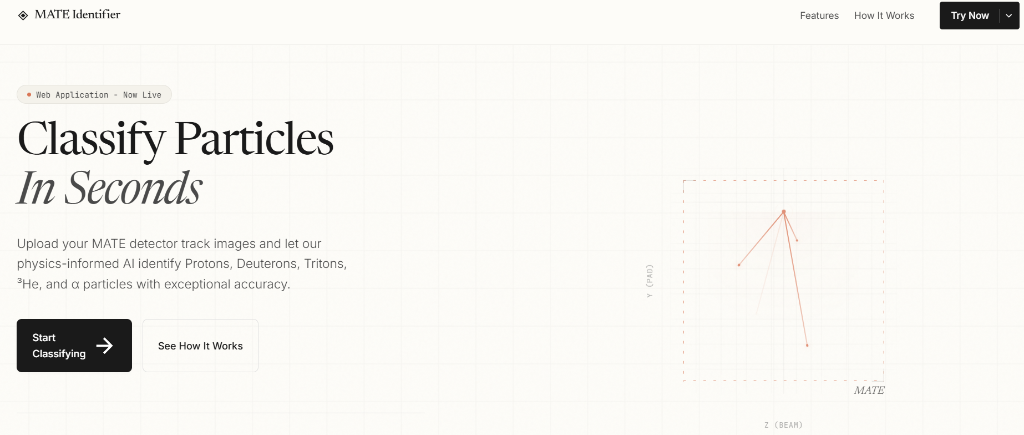
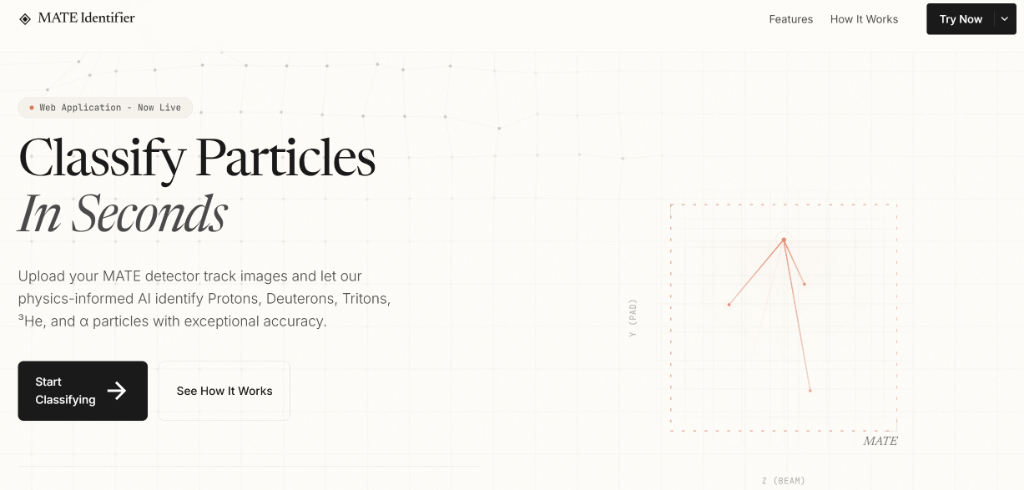
docs: Update landing page screenshot and reorganize README structure

diff --git a/README.md b/README.md
@@ -42,6 +42,68 @@ This repository contains a compact, reproducible baseline implemented in:
 
 ---
 
+## Visual Deployment
+
+The project includes an interactive **web-based demo interface** that allows users to:
+- Upload HDF5 or ROOT files for classification
+- Try pre-loaded sample data (Proton, Alpha, Mixed)
+- View classification results with confidence scores
+- Download results in CSV or JSON format
+
+![Landing Page Preview](assets/images/landing_page_preview.png)
+
+*The MATE Identifier web interface with an Anthropic-inspired design.*
+
+### Deploying the Frontend Locally
+
+The landing page is a static HTML/CSS/JS application with no build step required.
+
+#### Option 1: Python HTTP Server (Recommended)
+
+```bash
+# Navigate to the landing page directory
+cd landing_page
+
+# Start a local HTTP server
+python -m http.server 8080
+
+# Open in your browser
+# → http://localhost:8080
+```
+
+#### Option 2: VS Code Live Server
+
+1. Install the **Live Server** extension in VS Code
+2. Open the `landing_page/` folder
+3. Right-click `index.html` → **Open with Live Server**
+
+#### Option 3: Direct File Open
+
+Simply double-click `landing_page/index.html` to open it directly in your browser. Note: Some features (like file uploads) may be restricted due to browser security policies when using the `file://` protocol.
+
+### Frontend Structure
+
+```
+landing_page/
+├── index.html    # Main HTML structure
+├── styles.css    # Anthropic-inspired theme styling
+└── script.js     # Interactive functionality (upload, demo, etc.)
+```
+
+### Features
+
+| Feature | Description |
+|---------|-------------|
+| **File Upload** | Drag-and-drop or click to upload HDF5/ROOT files |
+| **Sample Data** | Quick demo with pre-configured Proton, Alpha, or Mixed samples |
+| **Results Table** | View predictions with confidence scores for each file |
+| **Export** | Download classification results as CSV or JSON |
+| **Responsive Design** | Works on desktop and mobile browsers |
+
+> **Note:** The web demo currently simulates classification results for demonstration purposes. To connect it to the actual PyTorch model, you would need to implement a backend API (e.g., Flask/FastAPI) that loads the trained model and processes uploaded files.
+
+---
+
 ## Architecture
 
 ![Architecture Schematic](assets/images/workflow_schematic.png)
@@ -144,68 +206,6 @@ python evaluate.py --checkpoint outputs/best_model.pth
 python verify.py
 python demo.py
 ```
-
----
-
-## Web Demo (Landing Page)
-
-The project includes an interactive **web-based demo interface** that allows users to:
-- Upload HDF5 or ROOT files for classification
-- Try pre-loaded sample data (Proton, Alpha, Mixed)
-- View classification results with confidence scores
-- Download results in CSV or JSON format
-
-![Landing Page Preview](assets/images/landing_page_preview.png)
-
-*The MATE Identifier web interface with an Anthropic-inspired design.*
-
-### Deploying the Frontend Locally
-
-The landing page is a static HTML/CSS/JS application with no build step required.
-
-#### Option 1: Python HTTP Server (Recommended)
-
-```bash
-# Navigate to the landing page directory
-cd landing_page
-
-# Start a local HTTP server
-python -m http.server 8080
-
-# Open in your browser
-# → http://localhost:8080
-```
-
-#### Option 2: VS Code Live Server
-
-1. Install the **Live Server** extension in VS Code
-2. Open the `landing_page/` folder
-3. Right-click `index.html` → **Open with Live Server**
-
-#### Option 3: Direct File Open
-
-Simply double-click `landing_page/index.html` to open it directly in your browser. Note: Some features (like file uploads) may be restricted due to browser security policies when using the `file://` protocol.
-
-### Frontend Structure
-
-```
-landing_page/
-├── index.html    # Main HTML structure
-├── styles.css    # Anthropic-inspired theme styling
-└── script.js     # Interactive functionality (upload, demo, etc.)
-```
-
-### Features
-
-| Feature | Description |
-|---------|-------------|
-| **File Upload** | Drag-and-drop or click to upload HDF5/ROOT files |
-| **Sample Data** | Quick demo with pre-configured Proton, Alpha, or Mixed samples |
-| **Results Table** | View predictions with confidence scores for each file |
-| **Export** | Download classification results as CSV or JSON |
-| **Responsive Design** | Works on desktop and mobile browsers |
-
-> **Note:** The web demo currently simulates classification results for demonstration purposes. To connect it to the actual PyTorch model, you would need to implement a backend API (e.g., Flask/FastAPI) that loads the trained model and processes uploaded files.
 
 ---
 
